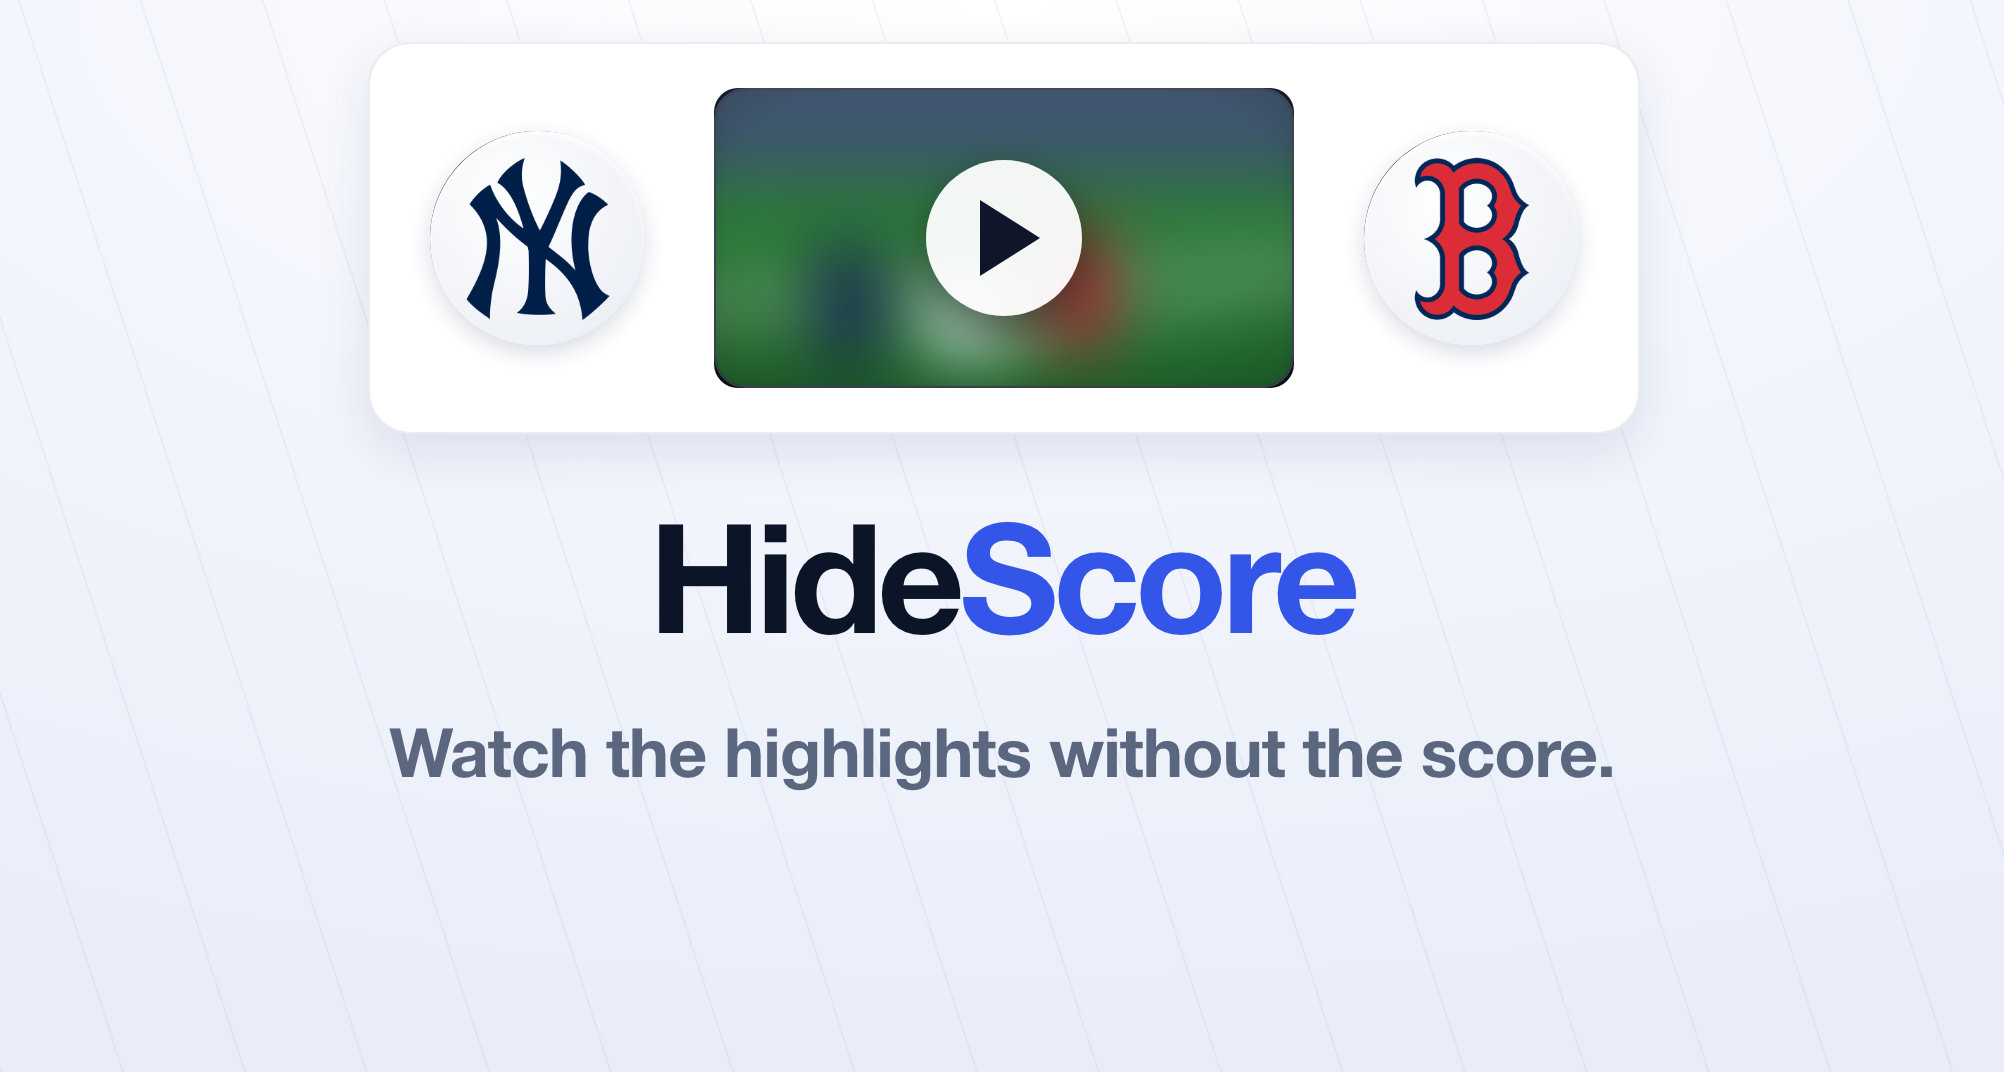
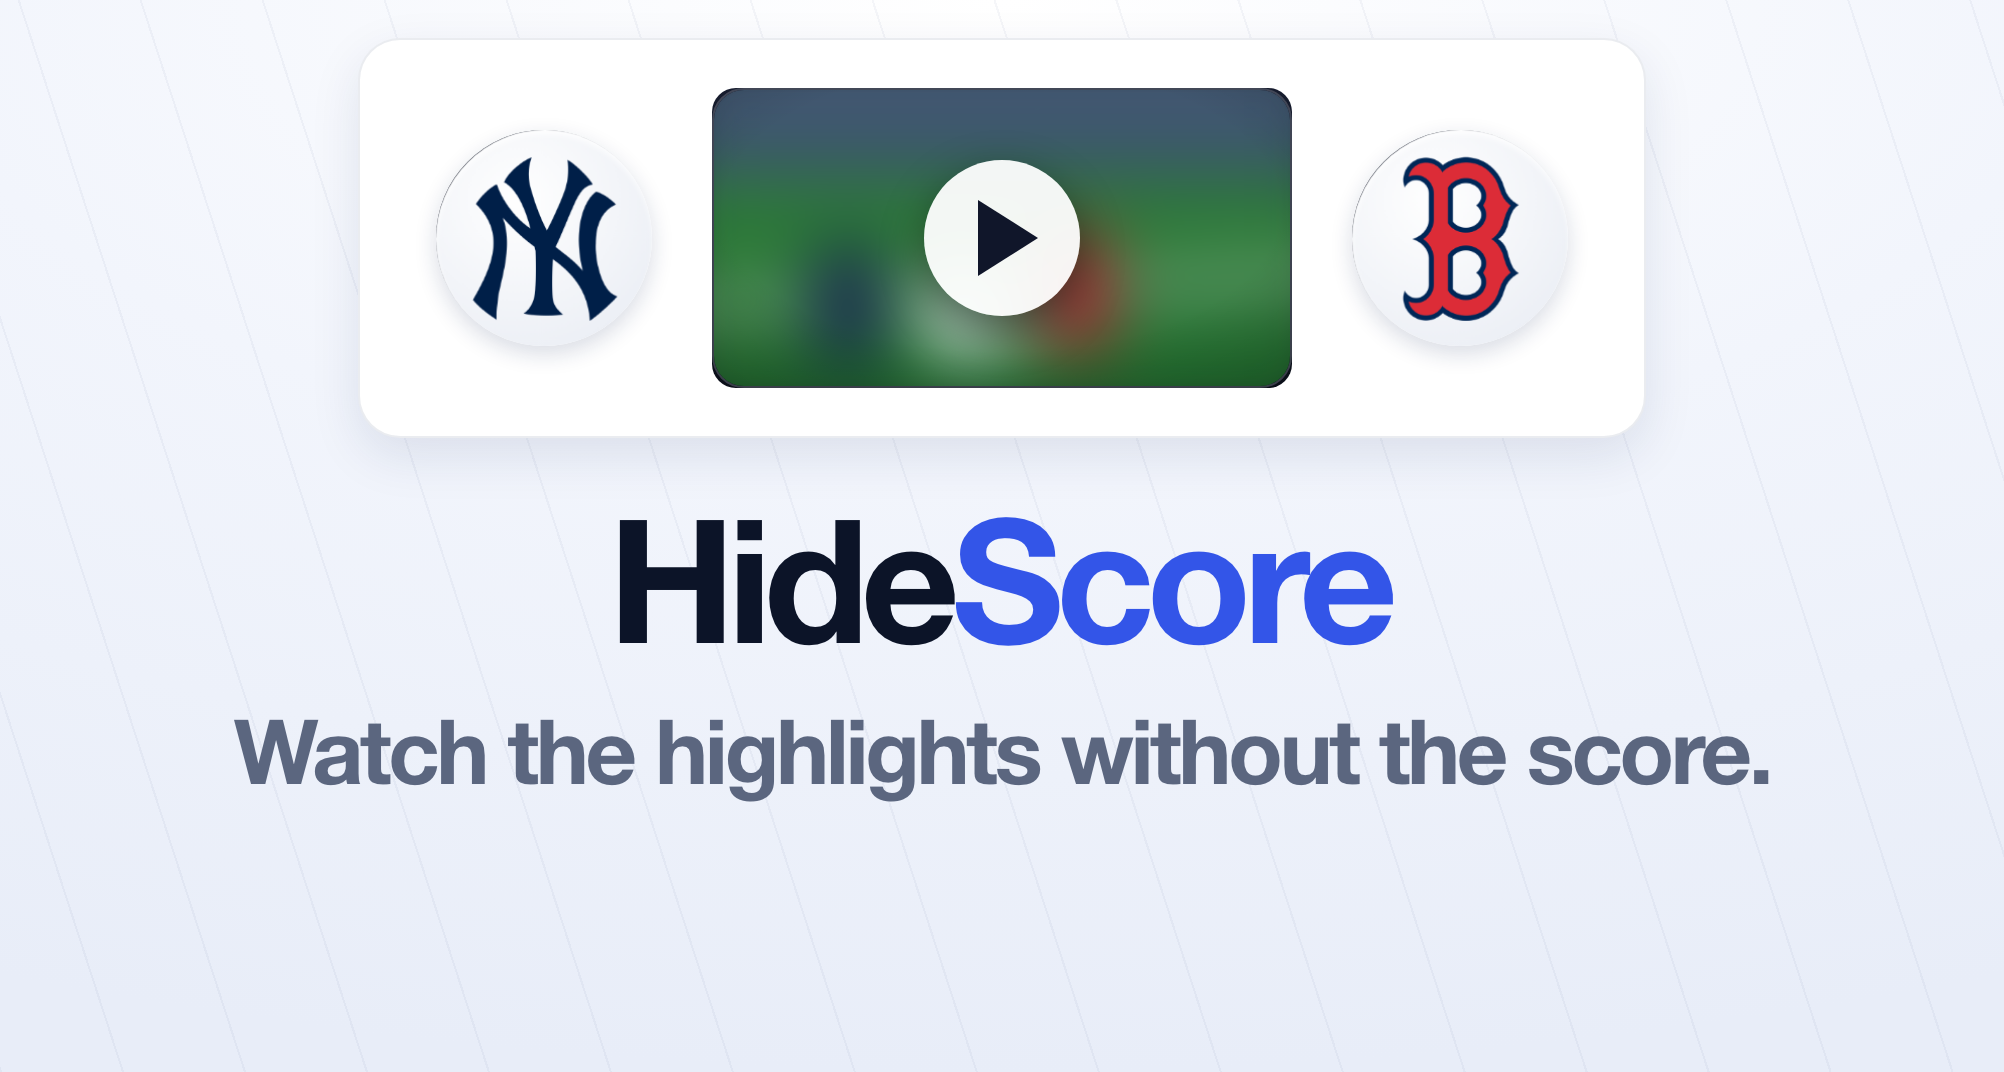
Light covers: match HideScore, The Island, Tonight NYC and SubwayTimes 1:1 to their dark twins
The light twins came from a generator that only approximated the older dark art, so on a
theme toggle the type shrank, the HideScore card changed size, The Island showed a CSS
stand-in for its icon and the Tonight NYC mic and spotlight moved. The generator
(~/jacobhl-covers/covers.html) is now calibrated off the shipped dark PNGs: every text line
lands within 1px of its dark position and size, and The Island uses the real app icon.
Dark covers are unchanged; light thumbs bumped to v=2.

diff --git a/index.html b/index.html
@@ -88,7 +88,7 @@
                     // /assets/… URL, so this is byte-for-byte behaviour-preserving; it just makes the
                     // head internally consistent and independent of the document path. No visual change.
                     l.href = dark ? '/assets/img/hidescore-cover-thumb.webp?v=1'
-                                  : '/assets/img/hidescore-cover-light-thumb.webp?v=1';
+                                  : '/assets/img/hidescore-cover-light-thumb.webp?v=2';
                     document.head.appendChild(l);
                 })();
             }
@@ -1682,18 +1682,18 @@ const MAIN = [
   // make-thumbs.py — the card slot is 200px, so the full 2004px PNGs (still in this folder,
   // and still the source/social art) were ~25x more bytes than anything on screen.
   // Cards without an imgLight are real screenshots of dark-by-design sites, so they stay as-is.
-  { title:"HideScore", live:true, img:"assets/img/hidescore-cover-thumb.webp?v=1", imgLight:"assets/img/hidescore-cover-light-thumb.webp?v=1", url:"https://hidescore.com",
+  { title:"HideScore", live:true, img:"assets/img/hidescore-cover-thumb.webp?v=1", imgLight:"assets/img/hidescore-cover-light-thumb.webp?v=2", url:"https://hidescore.com",
     one:"Watch sports highlights without seeing the score.",
     full:"Watch sports highlights without seeing the score. Covers MLB, NBA, NHL, NFL, soccer, tennis and more with score-hidden cards, embedded highlights, and a unified news view, all without spoiling anything you haven't watched.",
     site:"https://hidescore.com", appstore:"https://apps.apple.com/app/hidescore/id6766885311" },
   // Card ORDER does not live in this array any more — see MAIN_ORDER under the closing bracket.
   // Entries stay put here because several carry their own explanatory comment, and a script that
   // moved entries would strand those comments against the wrong project.
-  { title:"The Island", live:true, img:"assets/img/theisland-cover-thumb.webp?v=1", imgLight:"assets/img/theisland-cover-light-thumb.webp?v=1", url:"https://theisland.nyc",
+  { title:"The Island", live:true, img:"assets/img/theisland-cover-thumb.webp?v=1", imgLight:"assets/img/theisland-cover-light-thumb.webp?v=2", url:"https://theisland.nyc",
     one:"Everything happening on NYC’s Roosevelt Island, in one place.",
     full:"Everything happening on NYC’s Roosevelt Island, in one place. It has real-time bus GPS, subway, tram, and ferry times, a restaurant guide, service alerts, an events newsletter, and an interactive map.",
     site:"https://theisland.nyc", appstore:"https://apps.apple.com/us/app/roosevelt-island/id6775979583" },
-  { title:"Tonight NYC", live:true, img:"assets/img/tonightnyc-cover-thumb.webp?v=1", imgLight:"assets/img/tonightnyc-cover-light-thumb.webp?v=1", url:"https://tonightnyc.com",
+  { title:"Tonight NYC", live:true, img:"assets/img/tonightnyc-cover-thumb.webp?v=1", imgLight:"assets/img/tonightnyc-cover-light-thumb.webp?v=2", url:"https://tonightnyc.com",
     one:"Every NYC comedy show, filtered to your favorite comedians.",
     full:"No more digging for comedy showtimes, stick to your favorite comedians. Includes every NYC show from the Comedy Cellar, The Stand, and more, filtered your way. Mark favorites and skips, see which set to attend at a glance, and book directly.",
     site:"https://tonightnyc.com", appstore:"https://apps.apple.com/app/id6763027650" },
@@ -1705,7 +1705,7 @@ const MAIN = [
   // CSS/JS comments already note), so the live-preview iframe would just sit blank until the 6s timeout
   // text. This flag routes its preview straight to the built-but-until-now-unwired poster fallback
   // (cover image + "Open subwaytimes.com ↗"), the exact case that feature was added for.
-  { title:"Subway Times", live:true, noEmbed:true, img:"assets/img/subwaytimes-cover-thumb.webp?v=1", imgLight:"assets/img/subwaytimes-cover-light-thumb.webp?v=1", url:"https://subwaytimes.com",
+  { title:"Subway Times", live:true, noEmbed:true, img:"assets/img/subwaytimes-cover-thumb.webp?v=1", imgLight:"assets/img/subwaytimes-cover-light-thumb.webp?v=2", url:"https://subwaytimes.com",
     one:"Real-time NYC subway arrivals, faster than Maps.",
     full:"Quicker than Google Maps for simple departures, especially from your home station. Real-time NYC subway arrivals, where you can favorite your stations, see countdown timers down to the second, and get out the door faster.",
     site:"https://subwaytimes.com", appstore:"https://apps.apple.com/us/app/subwaytimes/id6775994423" },
